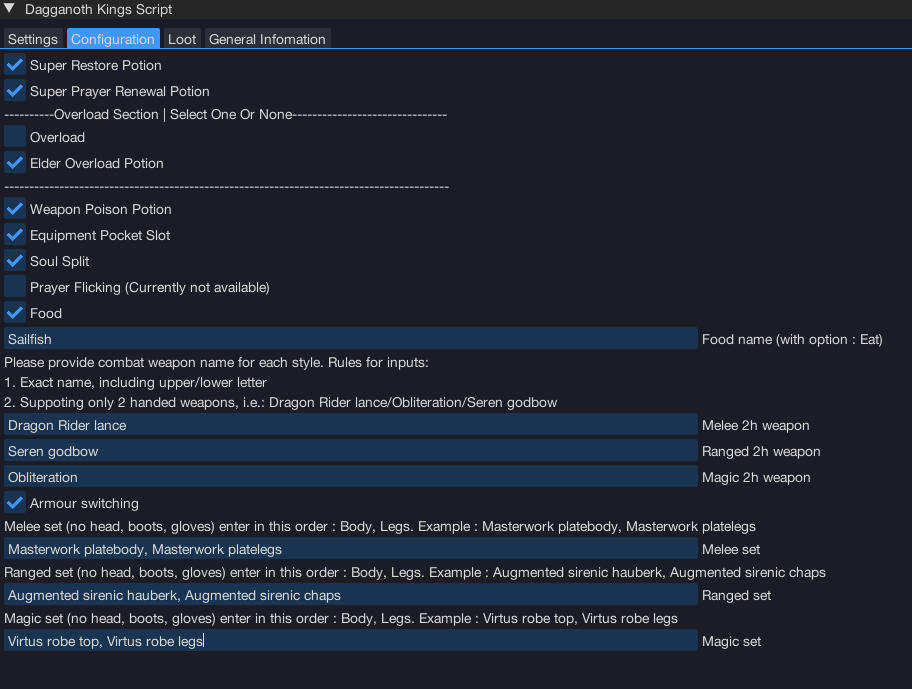
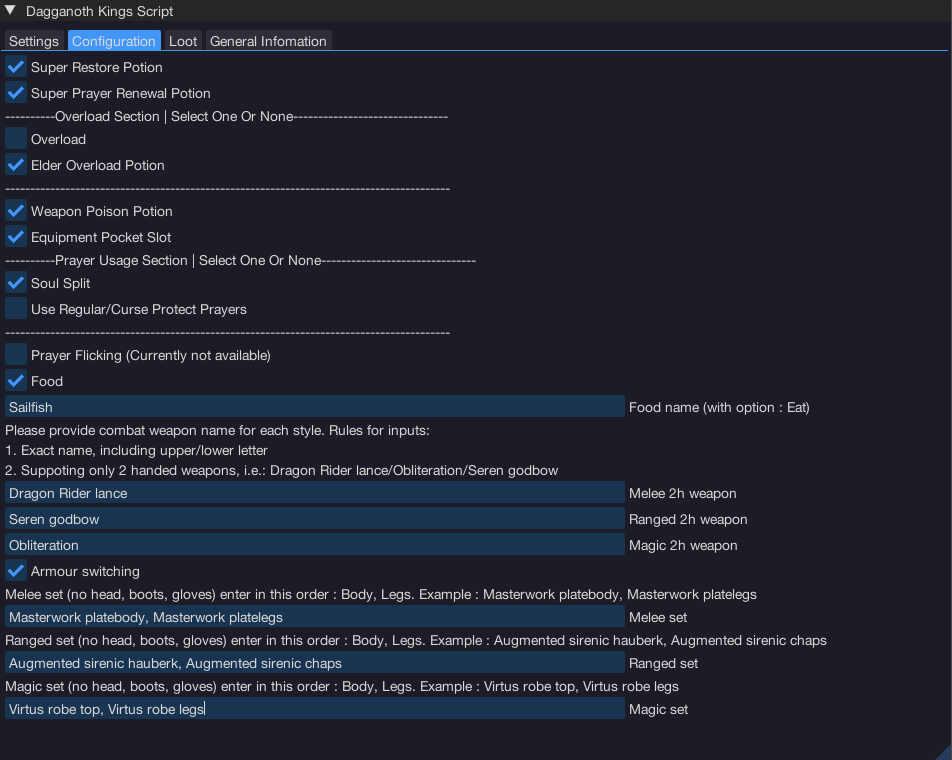
article and changelog update

Changed region(s): [[0.0, 0.0, 1.0, 0.9448], [0.9825, 0.9753, 1.0, 1.0]]

diff --git a/docs/Scripts/Combat/Boss Scripts/ErvinasDagannothKings/index.md b/docs/Scripts/Combat/Boss Scripts/ErvinasDagannothKings/index.md
@@ -35,7 +35,7 @@ import changes from './changes.json'
 
 <ContentBlock title="Requirements">
 
-> - Access to Soul Split.
+> - Access to Soul Split. **RECOMMENDED**
 > - Access to War's Retreat.
 > - Access to Dagannoth Kings instance teleport.
 > - Be able to have/use Overloads.
@@ -69,6 +69,8 @@ import changes from './changes.json'
 > - Uses Pocket Item if it's available.
 > - Endless cycle, even if you have backed to War's Retreat mid fight.
 > - Uses Revolution.
+> - Uses Soul Split
+> - Uses Regular/Curse Protection Prayers if Soul Split is turned off in settings.
 </ContentBlock>
 
 :::hidden
@@ -86,6 +88,7 @@ import changes from './changes.json'
 > - Soul Split somewhere in action bar.
 > - Revolution Bars are setuped individually, how you want you character to perform.
 > - Make sure in Combat Options you are enabled threshold and ultimate ability autocast.
+> - **Soul Split** and **Protection Prayers** has to be somewhere in Action Bar if you are planning to use.
 </ContentBlock>
 
 :::hidden
@@ -108,6 +111,7 @@ import changes from './changes.json'
 > - Equipment Pocket Slot - Mainly used for books: Wen/Jas/Grimoire/Illumination etc, as long it has "Activate/Deactivate" option.
 > - Food - **HIGHLY RECOMMENDED**, it will pop a new text insertion in which you have to write **PRECISE** name of a food, which has option **EAT**.
 > - Weapon and Armour is fully written in the script. Read closely.
+> - Familiars (Fighting and Inventory) **NOT AVAILABLE YET**
 
 </details>
 
@@ -129,6 +133,7 @@ import changes from './changes.json'
 > - Have atleast 5 free inventory spaces for loot.
 > - Have some food to **jumpstart** the script at bosses.
 > - Have 150k coins in your backpack for instance creation.
+> - **Soul Split** and **Protection Prayers** has to be somewhere in Action Bar.
 > - Happy Botting.
 </ContentBlock>
 
